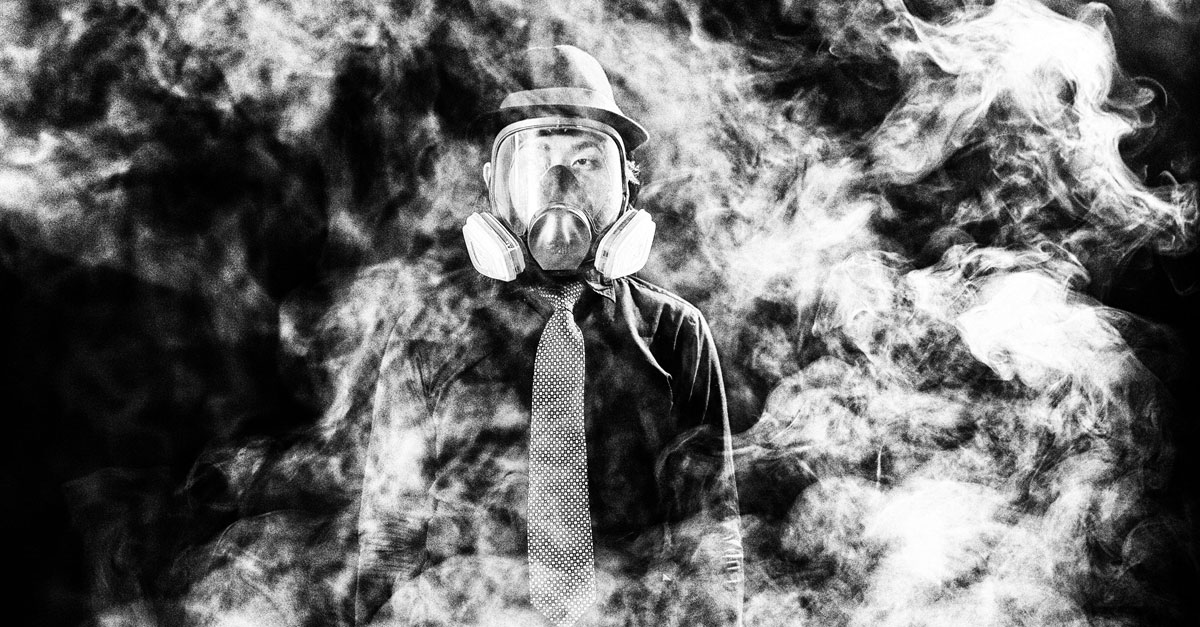
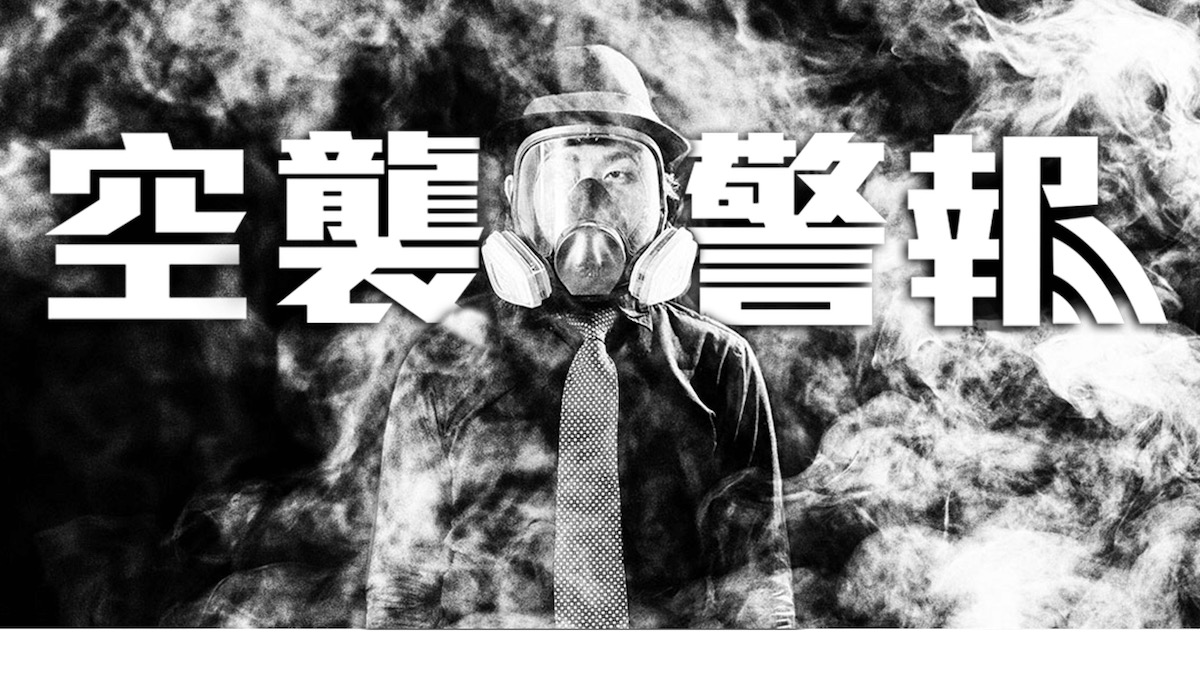
adjust title effect & og img

diff --git a/airquality/index.html b/airquality/index.html
@@ -17,7 +17,7 @@
 	    <meta property="og:url" content="https://www.mirrormedia.mg/projects/airquality/"/>
 	    <meta property="og:image" content="https://www.mirrormedia.mg/projects/airquality/img/preview.jpg">
 	    <meta property="og:image:width" content="1200" />
-	    <meta property="og:image:height" content="627" />
+	    <meta property="og:image:height" content="675" />
 
 	    <link rel="icon" sizes="192x192" href="https://www.mirrormedia.mg/story/img/apple-touch-icon.png">
 	    <link rel="apple-touch-icon" sizes="180x180" href="https://www.mirrormedia.mg/story/img/apple-touch-icon.png">
@@ -142,7 +142,7 @@
 				</div>
 
 			    <div class="mainTitle">
-			    	空襲警報
+			    	<img src="img/headline.png">
 			    </div>
 
 				<div class="infoBox">
@@ -643,9 +643,9 @@
 		<script type="text/javascript" src="js/Detector.js"></script>
 		<script type="text/javascript" src="http://ajax.googleapis.com/ajax/libs/jquery/3.1.1/jquery.min.js"></script>
 		<script type="text/javascript" src="js/jquery.mousewheel.min.js"></script>
-        <script type="text/javascript" src="https://code.highcharts.com/highcharts.js"></script>
-        <script type="text/javascript" src="http://code.highcharts.com/highcharts-more.js"></script>
-        <script type="text/javascript" src="https://code.highcharts.com/modules/exporting.js"></script>
+    <script type="text/javascript" src="https://code.highcharts.com/highcharts.js"></script>
+    <script type="text/javascript" src="http://code.highcharts.com/highcharts-more.js"></script>
+    <script type="text/javascript" src="https://code.highcharts.com/modules/exporting.js"></script>
 		<script type="text/javascript" src="js/SnowBox.js"></script>
 		<script type="text/javascript" src="js/scrolloverflow.min.js"></script>
 		<script type="text/javascript" src="js/jquery.fullPage.min.js"></script>

diff --git a/airquality/js/main.js b/airquality/js/main.js
@@ -44,6 +44,7 @@ function checkNearestStreetView(data, status) {
 }
 
 function getLocation() {
+    //console.log("Geolocation", navigator.geolocation)
     if (navigator.geolocation) {
         navigator.geolocation.getCurrentPosition(showPosition);
     } else { 
@@ -75,8 +76,8 @@ function hvs2(latA, longA, latB, longB){
 function showPosition(position) {
     var sv = new google.maps.StreetViewService();
 
-    console.log('latitude', position.coords.latitude);
-    console.log('longitude', position.coords.longitude);
+    // console.log('latitude', position.coords.latitude);
+    // console.log('longitude', position.coords.longitude);
 
     var nearest, site;
 

diff --git a/airquality/css/style.css b/airquality/css/style.css
@@ -197,6 +197,11 @@ div.leftContainer::-webkit-scrollbar-corner {
   text-align: center;
   color: #ffffff;
   z-index: 90;
+  overflow: hidden;
+}
+
+.mainTitle > img {
+  width: 100%;
 }
 
 .mainTitle.loaded {
@@ -205,9 +210,9 @@ div.leftContainer::-webkit-scrollbar-corner {
 }
 
 @keyframes blackblur {
-  from { text-shadow: 0; color: #FFF; }
-  50%  { text-shadow: 0 0 72px rgba(0,0,0,0.7);  color: transparent; }
-  to   { text-shadow: 0 0 72px transparent;  color: transparent; }
+  from { opacity: 1; }
+  50%  { opacity: 0.7; }
+  to   { opacity: 0; }
 }  
 
 .logo {
